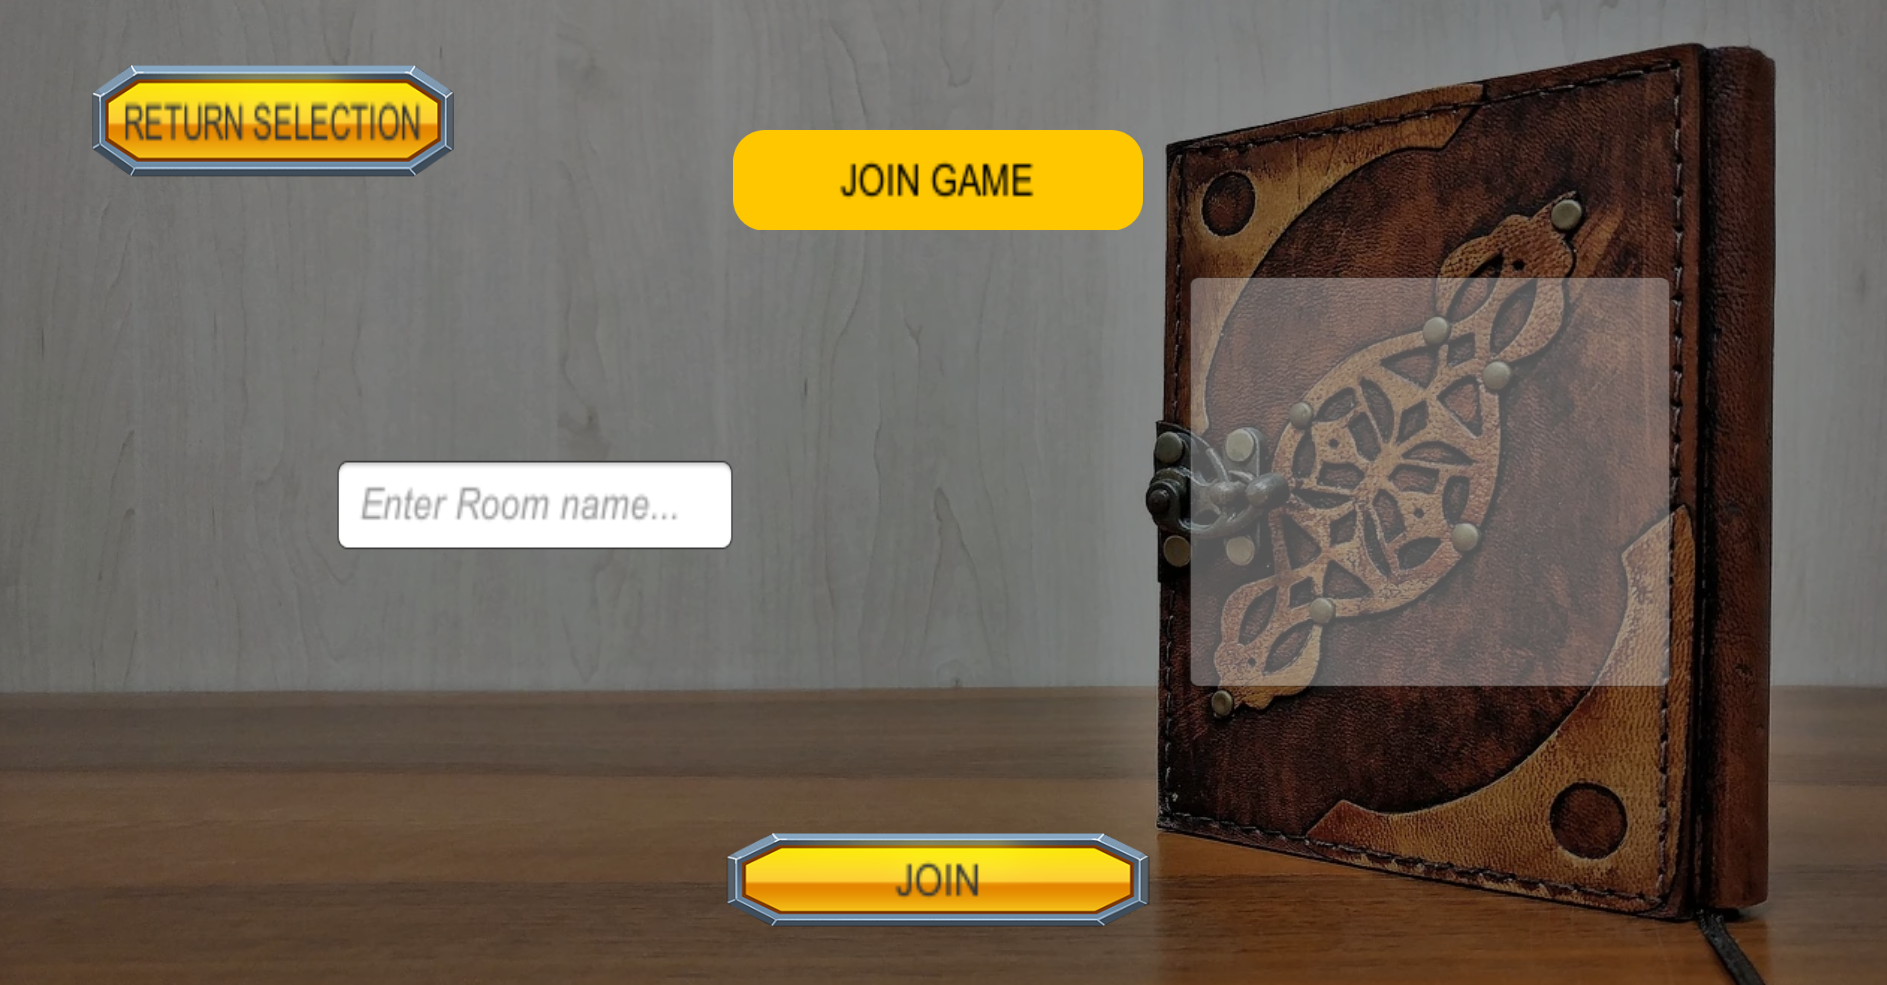
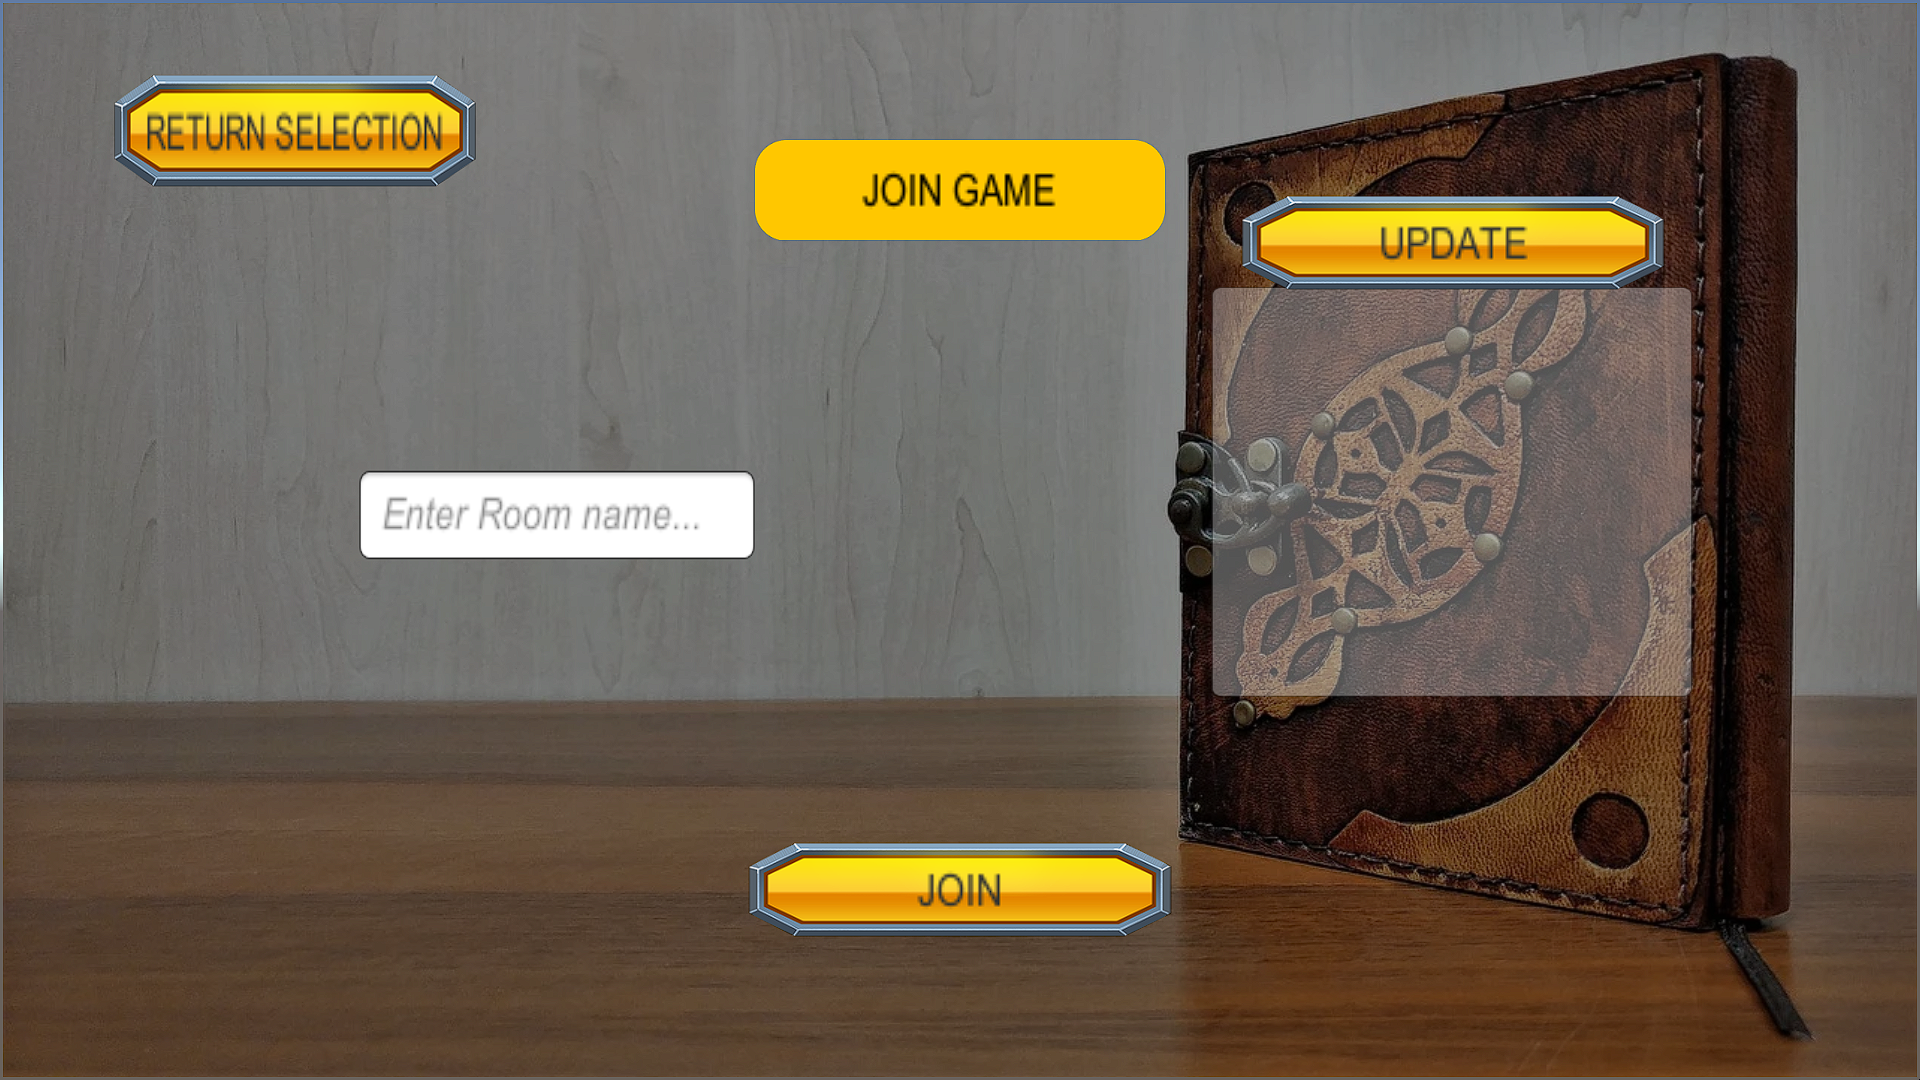
update manuals

diff --git a/Manuels/Utilisation/utilisation.tex b/Manuels/Utilisation/utilisation.tex
@@ -150,7 +150,7 @@
 	\noindent Dans ce menu, vous pouvez :
 	\begin{itemize}
 		\item Entrer le nom de la partie à rejoindre
-		\item Voir les noms des parties déjà existantes
+		\item Voir les noms des parties déjà existantes (avec Update pour rafraîchir)
 	\end{itemize}
 	
 	\clearpage
